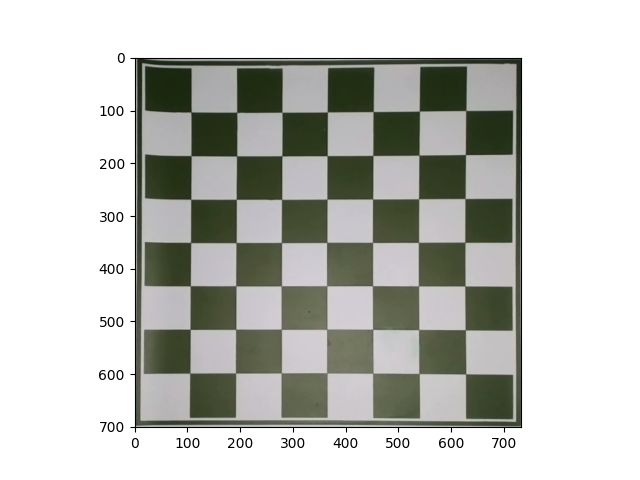
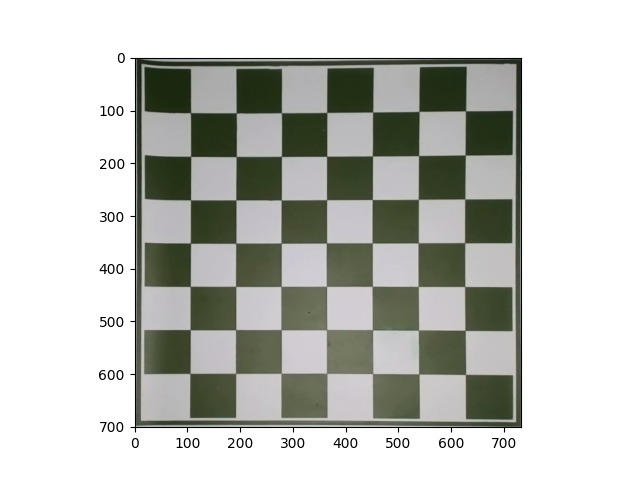
added the resources files

diff --git a/ress.py b/ress.py
@@ -23,12 +23,13 @@ borders = None
 rect = None
 frame_prevdiff = None
 frame_actdiff = None
+start_count = False
 cnt_motion = 0
 pos = utils.initial_position()
 pgn = ""
 
 def show_frame():
-	global frame, rect, borders, boardw, boardh, pos, pgn, start_diff, frame_prevdiff, frame_actdiff, cnt_motion
+	global frame, rect, borders, boardw, boardh, pos, pgn, start_diff, frame_prevdiff, frame_actdiff, cnt_motion, start_count
 	prev_frame = None
 	if cap.isOpened():
 
@@ -50,9 +51,22 @@ def show_frame():
 			if motion == False:
 				frame_prevdiff = dcb.get_perspective(borders, rect, boardw, boardh, frame_prevdiff)
 				frame_actdiff = dcb.get_perspective(borders, rect, boardw, boardh, frame)
-				c1, c2, difference = diff.difference(frame_prevdiff, frame_actdiff)
-				print(f'c1: {c1} c2: {c2}')
-				if c1 != c2:
+				movement = diff.check_difference(frame_prevdiff, frame_actdiff)
+
+				if movement == True:
+					start_count = True
+
+				if start_count == True:
+					cnt_motion += 1
+
+				if cnt_motion  >= 4:
+					start_count = False
+					cnt_motion = 0
+
+					frame_actdiff = dcb.get_perspective(borders, rect, boardw, boardh, frame)
+					c1, c2, difference = diff.difference(frame_prevdiff, frame_actdiff)
+					print(f'c1: {c1} c2: {c2}')
+
 					plt.imshow(difference)
 					plt.savefig('diff.png')
 					wc, hc = utils.rect_size(boardw, boardh)
@@ -63,7 +77,8 @@ def show_frame():
 					print(f'piece: {piece} move: {move}')
 					print(f'pos dict {pos}')
 					pgn = utils.update_pgn(pgn, move)
-				start_diff = True
+					frame_prevdiff = frame
+			#start_diff = True
 
 			print(f'motion: {motion}')
 

diff --git a/diff.py b/diff.py
@@ -53,6 +53,31 @@ def difference(prev_frame, frame):
 	return c1, c2, thresh
 
 
+def check_difference(prev_frame, frame):
+	movement = False
+
+	kernel = np.ones((7, 7), np.uint8)
+	
+	prev_gray = cv2.cvtColor(prev_frame, cv2.COLOR_BGR2GRAY)
+	gray = cv2.cvtColor(frame, cv2.COLOR_BGR2GRAY)
+
+	prev_blur = cv2.blur(prev_gray, (29, 29), 1)
+	blur = cv2.blur(gray, (29, 29), 1)
+
+	diff = cv2.absdiff(prev_blur, blur)
+	diff = cv2.dilate(diff, kernel, iterations = 2)
+
+	h, thresh = cv2.threshold(diff, 18, 255, cv2.THRESH_BINARY)
+	hand = detect_hand(thresh)	
+
+	contours, _ = cv2.findContours(thresh, cv2.RETR_EXTERNAL, cv2.CHAIN_APPROX_SIMPLE)
+
+	if len(contours) != 0:
+		movement = True
+
+	return movement
+
+
 def detect_hand(frame):
 	hand = False
 

diff --git a/detectChessBoard.py b/detectChessBoard.py
@@ -81,6 +81,7 @@ def get_chessboardcoordinates(img, contours):
 		borders = order_points(borders)
 	else:
 		borders = None
+
 	return borders
 
 
